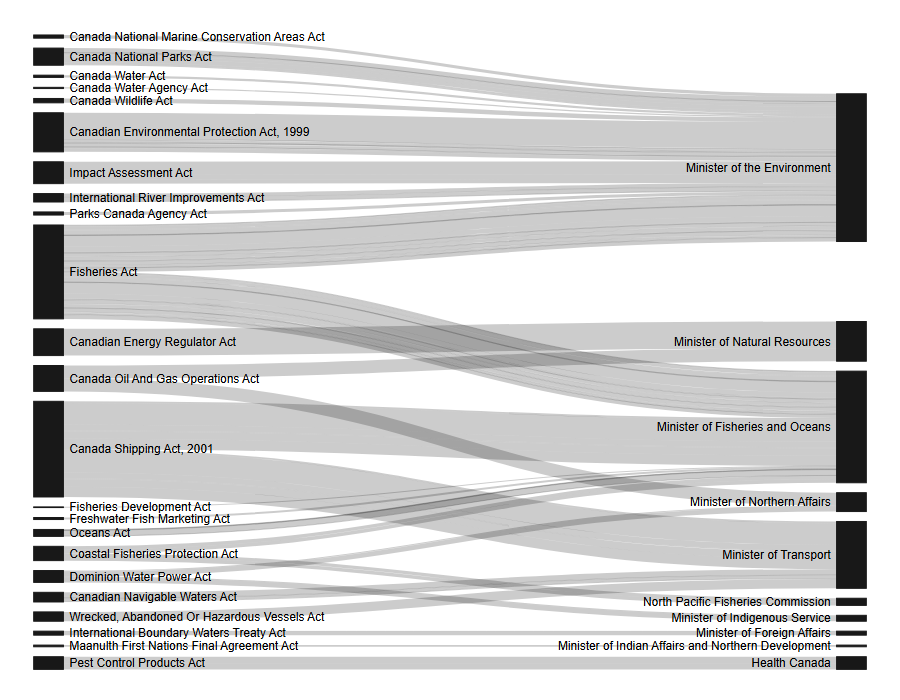
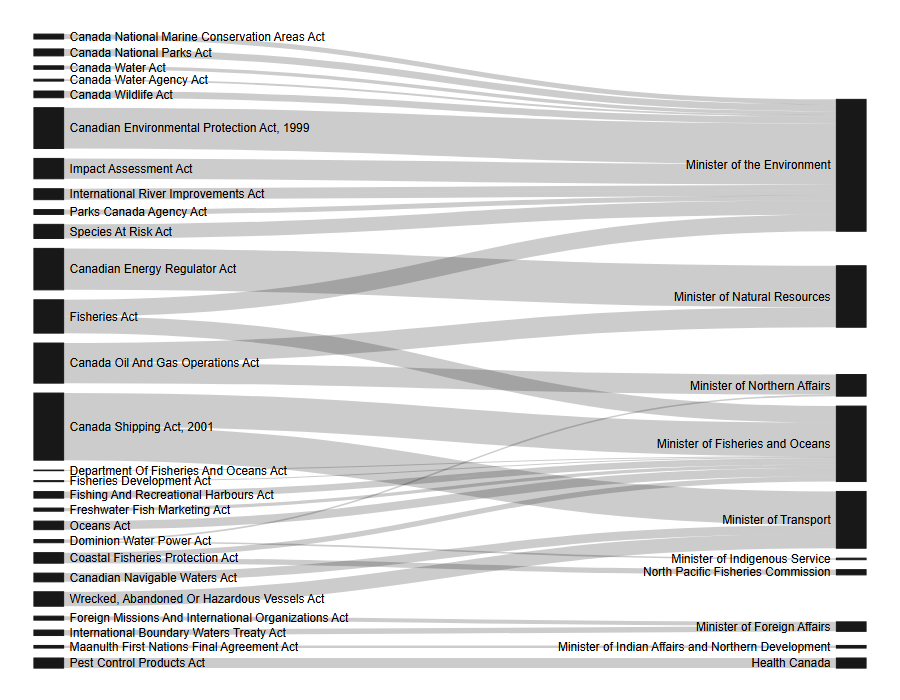
Reran figures for revised sankey charts

diff --git a/figures/figure_06b_sankey_provincial.html b/figures/figure_06b_sankey_provincial.html
@@ -1598,9 +1598,9 @@ this._y1=this._y2,this._y2=n}};var _w=function t(n){function e(t){return new qc(
 </head>
 <body style="background-color: white;">
 <div id="htmlwidget_container">
-  <div class="sankeyNetwork html-widget html-fill-item" id="htmlwidget-49c8118691e50ddac971" style="width:960px;height:500px;"></div>
+  <div class="sankeyNetwork html-widget html-fill-item" id="htmlwidget-5b10cc4f121936b40452" style="width:960px;height:500px;"></div>
 </div>
-<script type="application/json" data-for="htmlwidget-49c8118691e50ddac971">{"x":{"links":{"source":[0,0,0,1,1,1,2,3,4,4,5,5,6,7,7,7,7,7,8,8,9,9,9,9,9,9,9,9,9,9,9,9,9,9,9,9,9,9,9,9,9,9,9,9,9,9,9,9,9,9,9,9,9,9,9,9,9,9,9,9,9,9,10,11,11,12,13,13,14,14,15,16,16,17,17,18,18,19,20,20,21,21,21,22,22,22,23,23,23,23,23,24,24,25,25,25,25,26,26,27,28,29,30,31,32,32,32,32,32,33,34,34,35,35,35,35,35,35,35,35,35,35],"target":[36,36,36,36,36,36,37,38,38,38,39,39,40,41,41,41,41,41,39,39,42,42,42,42,42,42,42,42,42,42,42,42,42,42,39,39,39,39,39,39,39,39,39,39,39,39,39,39,38,38,38,38,38,38,38,38,38,38,38,38,38,38,43,36,36,44,38,38,37,45,38,39,39,38,38,38,38,46,45,45,39,39,39,45,45,45,47,47,47,47,47,48,38,37,37,45,45,38,38,38,49,48,50,38,38,38,38,38,38,38,45,45,38,38,38,38,38,38,38,38,38,38],"value":[82,36,42,104,6,23,84,9,55,21,19,7,189,34,27,151,38,40,80,17,12,86,22,2,87,4,170,8,121,8,17,12,9,14,12,86,22,2,87,4,170,8,121,8,17,12,9,14,12,86,22,2,87,4,170,8,121,8,17,12,9,14,77,10,4,14,6,6,446,446,10,42,91,140,8,5,5,53,6,2,45,49,47,46,5,32,4,4,3,10,146,76,76,77,18,77,18,5,24,1,150,93,232,18,41,94,1,143,63,6,16,8,27,29,1,4,3,38,70,53,151,2]},"nodes":{"name":["Agricultural Land Commission Act","Animal Health Act","Assessment Act","Dike Maintenance Act","Drinking Water Protection Act","Ecological Reserve Act","Emergency And Disaster Management Act","Energy Resource Activities Act","Environmental Assessment Act","Environmental Management Act","Environmental Management Act And Public Health Act","Farm Practices Protection Act","Fishing Collective Bargaining Act","Flood Relief Act","Forest Act","Greenbelt Act","Integrated Pest Management Act","Land Act","Libby Dam Reservoir Act","Mines Act","Natural Resource Compliance Act","Park Act","Private Managed Forest Land Act","Professional Governance Act","Railway Act","Range Act","Riparian Areas Protection Act","The Hunting And Fishing Heritage Act","Tla'amin Final Agreement Act","Transportation Act","Tsawwassen First Nation Final Agreement Act","Water Protection Act","Water Sustainability Act","Water Utility Act","Weed Control Act","Wildlife Act","Agriculture and Food","Finance","Water, Land and Resource Stewardship","Environment and Parks","Emergency Management and Climate Readiness","Energy and Climate Solutions","Attorney General and Deputy Premier","Health","Labour","Forests","Mining and Critical Minerals","Post-Secondary Education and Future Skills","Transportation and Transit","Minister of Aboriginal Affairs and Northern Development","Minister of Indian Affairs and Northern Development"],"group":["Provincial","Provincial","Provincial","Provincial","Provincial","Provincial","Provincial","Provincial","Provincial","Provincial","Provincial","Provincial","Provincial","Provincial","Provincial","Provincial","Provincial","Provincial","Provincial","Provincial","Provincial","Provincial","Provincial","Provincial","Provincial","Provincial","Provincial","Provincial","Provincial","Provincial","Provincial","Provincial","Provincial","Provincial","Provincial","Provincial","Provincial","Provincial","Provincial","Provincial","Provincial","Provincial","Provincial","Provincial","Provincial","Provincial","Provincial","Provincial","Provincial","Provincial","Provincial"]},"options":{"NodeID":"name","NodeGroup":"group","LinkGroup":null,"colourScale":"d3.scaleOrdinal().domain(['Federal', 'Provincial']).range(['gray30', 'gray60'])","fontSize":12,"fontFamily":"sans-serif","nodeWidth":30,"nodePadding":10,"units":"","margin":{"top":null,"right":null,"bottom":null,"left":null},"iterations":100,"sinksRight":true}},"evals":[],"jsHooks":[]}</script>
-<script type="application/htmlwidget-sizing" data-for="htmlwidget-49c8118691e50ddac971">{"viewer":{"width":450,"height":350,"padding":10,"fill":true},"browser":{"width":960,"height":500,"padding":10,"fill":true}}</script>
+<script type="application/json" data-for="htmlwidget-5b10cc4f121936b40452">{"x":{"links":{"source":[0,1,2,3,4,5,6,7,8,9,10,11,11,11,12,13,14,14,15,16,16,17,17,18,18,18,18,18,19,20,21,22,23,23,24,25,26,27,28,29,29,30,30,31,32,33,34,35,36,37,38,39,40],"target":[41,41,42,43,43,43,44,45,46,43,44,47,44,43,41,41,41,43,48,43,43,42,49,47,44,42,49,43,43,46,44,43,43,43,50,49,44,49,51,52,43,42,49,43,43,53,52,54,43,43,43,49,43],"value":[82,104,84,9,123,55,19,189,151,8,80,170,170,170,10,10,67,67,14,6,6,446,446,312,312,312,312,312,10,35,42,140,5,5,53,6,49,46,146,76,76,77,77,5,1,150,93,232,18,143,6,16,151]},"nodes":{"name":["Agricultural Land Commission Act","Animal Health Act","Assessment Act","Dike Maintenance Act","Drainage, Ditch And Dike Act","Drinking Water Protection Act","Ecological Reserve Act","Emergency And Disaster Management Act","Energy Resource Activities Act","Environment And Land Use Act","Environmental Assessment Act","Environmental Management Act","Farm Practices Protection Act","Farming And Fishing Industries Development Act","Fish And Seafood Act","Fishing Collective Bargaining Act","Flood Relief Act","Forest Act","Forest And Range Practices Act","Greenbelt Act","Hydro And Power Authority Act","Integrated Pest Management Act","Land Act","Libby Dam Reservoir Act","Mines Act","Natural Resource Compliance Act","Park Act","Private Managed Forest Land Act","Professional Governance Act","Railway Act","Range Act","Riparian Areas Protection Act","The Hunting And Fishing Heritage Act","Tla'amin Final Agreement Act","Transportation Act","Tsawwassen First Nation Final Agreement Act","Water Protection Act","Water Sustainability Act","Water Utility Act","Weed Control Act","Wildlife Act","Agriculture and Food","Finance","Water, Land and Resource Stewardship","Environment and Parks","Emergency Management and Climate Readiness","Energy and Climate Solutions","Attorney General and Deputy Premier","Labour","Forests","Mining and Critical Minerals","Post-Secondary Education and Future Skills","Transportation and Transit","Minister of Aboriginal Affairs and Northern Development","Minister of Indian Affairs and Northern Development"],"group":["Provincial","Provincial","Provincial","Provincial","Provincial","Provincial","Provincial","Provincial","Provincial","Provincial","Provincial","Provincial","Provincial","Provincial","Provincial","Provincial","Provincial","Provincial","Provincial","Provincial","Provincial","Provincial","Provincial","Provincial","Provincial","Provincial","Provincial","Provincial","Provincial","Provincial","Provincial","Provincial","Provincial","Provincial","Provincial","Provincial","Provincial","Provincial","Provincial","Provincial","Provincial","Provincial","Provincial","Provincial","Provincial","Provincial","Provincial","Provincial","Provincial","Provincial","Provincial","Provincial","Provincial","Provincial","Provincial"]},"options":{"NodeID":"name","NodeGroup":"group","LinkGroup":null,"colourScale":"d3.scaleOrdinal().domain(['Federal', 'Provincial']).range(['gray30', 'gray60'])","fontSize":12,"fontFamily":"sans-serif","nodeWidth":30,"nodePadding":10,"units":"","margin":{"top":null,"right":null,"bottom":null,"left":null},"iterations":100,"sinksRight":true}},"evals":[],"jsHooks":[]}</script>
+<script type="application/htmlwidget-sizing" data-for="htmlwidget-5b10cc4f121936b40452">{"viewer":{"width":450,"height":350,"padding":10,"fill":true},"browser":{"width":960,"height":500,"padding":10,"fill":true}}</script>
 </body>
 </html>

diff --git a/figures/figure_06a_sankey_federal.html b/figures/figure_06a_sankey_federal.html
@@ -1598,9 +1598,9 @@ this._y1=this._y2,this._y2=n}};var _w=function t(n){function e(t){return new qc(
 </head>
 <body style="background-color: white;">
 <div id="htmlwidget_container">
-  <div class="sankeyNetwork html-widget html-fill-item" id="htmlwidget-2721db9c42f170aa252f" style="width:960px;height:500px;"></div>
+  <div class="sankeyNetwork html-widget html-fill-item" id="htmlwidget-2fdbfc55fbd5278274e1" style="width:960px;height:500px;"></div>
 </div>
-<script type="application/json" data-for="htmlwidget-2721db9c42f170aa252f">{"x":{"links":{"source":[0,1,1,1,1,1,1,1,2,2,3,3,3,3,3,3,3,3,3,3,3,3,4,5,6,7,8,8,8,8,8,8,8,8,8,8,9,9,9,9,10,10,10,10,11,11,11,11,12,12,12,12,12,12,12,12,12,12,12,12,12,12,12,12,12,12,12,12,12,12,12,12,12,12,12,12,12,12,12,12,12,12,12,12,12,12,12,12,12,12,13,14,15,15,15,16,16,17,17,17,17,18,19,19,19,19,19,20,21,21,22],"target":[23,23,23,23,23,23,23,23,24,25,26,26,26,26,26,26,27,27,27,27,27,27,23,23,23,24,23,23,23,23,23,23,23,23,23,23,27,27,27,27,26,26,28,28,29,29,25,25,26,26,26,26,26,26,26,26,26,26,26,26,26,26,26,26,26,26,26,26,26,23,23,23,23,23,23,23,23,23,23,23,23,23,23,23,23,23,23,23,23,23,26,26,23,23,23,30,30,23,23,23,23,31,26,26,26,26,26,23,32,32,27],"value":[47,66,2,36,41,62,30,15,190,190,26,318,84,15,108,151,26,318,84,15,108,151,33,18,64,393,387,11,15,24,7,12,45,6,18,49,83,7,40,12,50,55,50,55,15,72,15,72,8,18,40,16,67,2,7,158,70,20,5,46,13,43,15,6,51,13,31,5,55,8,18,40,16,67,2,7,158,70,20,5,46,13,43,15,6,51,13,31,5,55,10,30,193,67,61,7,52,52,10,52,10,25,8,3,5,81,5,46,96,90,137]},"nodes":{"name":["Canada National Marine Conservation Areas Act","Canada National Parks Act","Canada Oil And Gas Operations Act","Canada Shipping Act, 2001","Canada Water Act","Canada Water Agency Act","Canada Wildlife Act","Canadian Energy Regulator Act","Canadian Environmental Protection Act, 1999","Canadian Navigable Waters Act","Coastal Fisheries Protection Act","Dominion Water Power Act","Fisheries Act","Fisheries Development Act","Freshwater Fish Marketing Act","Impact Assessment Act","International Boundary Waters Treaty Act","International River Improvements Act","Maanulth First Nations Final Agreement Act","Oceans Act","Parks Canada Agency Act","Pest Control Products Act","Wrecked, Abandoned Or Hazardous Vessels Act","Minister of the Environment","Minister of Natural Resources","Minister of Northern Affairs","Minister of Fisheries and Oceans","Minister of Transport","North Pacific Fisheries Commission","Minister of Indigenous Service","Minister of Foreign Affairs","Minister of Indian Affairs and Northern Development","Health Canada"],"group":["Federal","Federal","Federal","Federal","Federal","Federal","Federal","Federal","Federal","Federal","Federal","Federal","Federal","Federal","Federal","Federal","Federal","Federal","Federal","Federal","Federal","Federal","Federal","Federal","Federal","Federal","Federal","Federal","Federal","Federal","Federal","Federal","Federal"]},"options":{"NodeID":"name","NodeGroup":"group","LinkGroup":null,"colourScale":"d3.scaleOrdinal().domain(['Federal', 'Provincial']).range(['gray30', 'gray60'])","fontSize":12,"fontFamily":"sans-serif","nodeWidth":30,"nodePadding":10,"units":"","margin":{"top":null,"right":null,"bottom":null,"left":null},"iterations":100,"sinksRight":true}},"evals":[],"jsHooks":[]}</script>
-<script type="application/htmlwidget-sizing" data-for="htmlwidget-2721db9c42f170aa252f">{"viewer":{"width":450,"height":350,"padding":10,"fill":true},"browser":{"width":960,"height":500,"padding":10,"fill":true}}</script>
+<script type="application/json" data-for="htmlwidget-2fdbfc55fbd5278274e1">{"x":{"links":{"source":[0,1,2,2,3,3,4,5,6,7,8,9,10,10,11,12,12,13,13,14,15,15,16,17,18,19,20,20,21,22,23,24,25,26],"target":[27,27,28,29,30,31,27,27,27,28,27,31,30,32,30,33,29,30,27,30,30,30,34,30,27,34,27,27,35,30,27,36,27,31],"value":[47,66,190,190,318,318,33,18,64,393,387,83,50,50,6,15,15,158,158,10,31,31,38,30,193,52,52,52,25,81,46,96,134,137]},"nodes":{"name":["Canada National Marine Conservation Areas Act","Canada National Parks Act","Canada Oil And Gas Operations Act","Canada Shipping Act, 2001","Canada Water Act","Canada Water Agency Act","Canada Wildlife Act","Canadian Energy Regulator Act","Canadian Environmental Protection Act, 1999","Canadian Navigable Waters Act","Coastal Fisheries Protection Act","Department Of Fisheries And Oceans Act","Dominion Water Power Act","Fisheries Act","Fisheries Development Act","Fishing And Recreational Harbours Act","Foreign Missions And International Organizations Act","Freshwater Fish Marketing Act","Impact Assessment Act","International Boundary Waters Treaty Act","International River Improvements Act","Maanulth First Nations Final Agreement Act","Oceans Act","Parks Canada Agency Act","Pest Control Products Act","Species At Risk Act","Wrecked, Abandoned Or Hazardous Vessels Act","Minister of the Environment","Minister of Natural Resources","Minister of Northern Affairs","Minister of Fisheries and Oceans","Minister of Transport","North Pacific Fisheries Commission","Minister of Indigenous Service","Minister of Foreign Affairs","Minister of Indian Affairs and Northern Development","Health Canada"],"group":["Federal","Federal","Federal","Federal","Federal","Federal","Federal","Federal","Federal","Federal","Federal","Federal","Federal","Federal","Federal","Federal","Federal","Federal","Federal","Federal","Federal","Federal","Federal","Federal","Federal","Federal","Federal","Federal","Federal","Federal","Federal","Federal","Federal","Federal","Federal","Federal","Federal"]},"options":{"NodeID":"name","NodeGroup":"group","LinkGroup":null,"colourScale":"d3.scaleOrdinal().domain(['Federal', 'Provincial']).range(['gray30', 'gray60'])","fontSize":12,"fontFamily":"sans-serif","nodeWidth":30,"nodePadding":10,"units":"","margin":{"top":null,"right":null,"bottom":null,"left":null},"iterations":100,"sinksRight":true}},"evals":[],"jsHooks":[]}</script>
+<script type="application/htmlwidget-sizing" data-for="htmlwidget-2fdbfc55fbd5278274e1">{"viewer":{"width":450,"height":350,"padding":10,"fill":true},"browser":{"width":960,"height":500,"padding":10,"fill":true}}</script>
 </body>
 </html>
